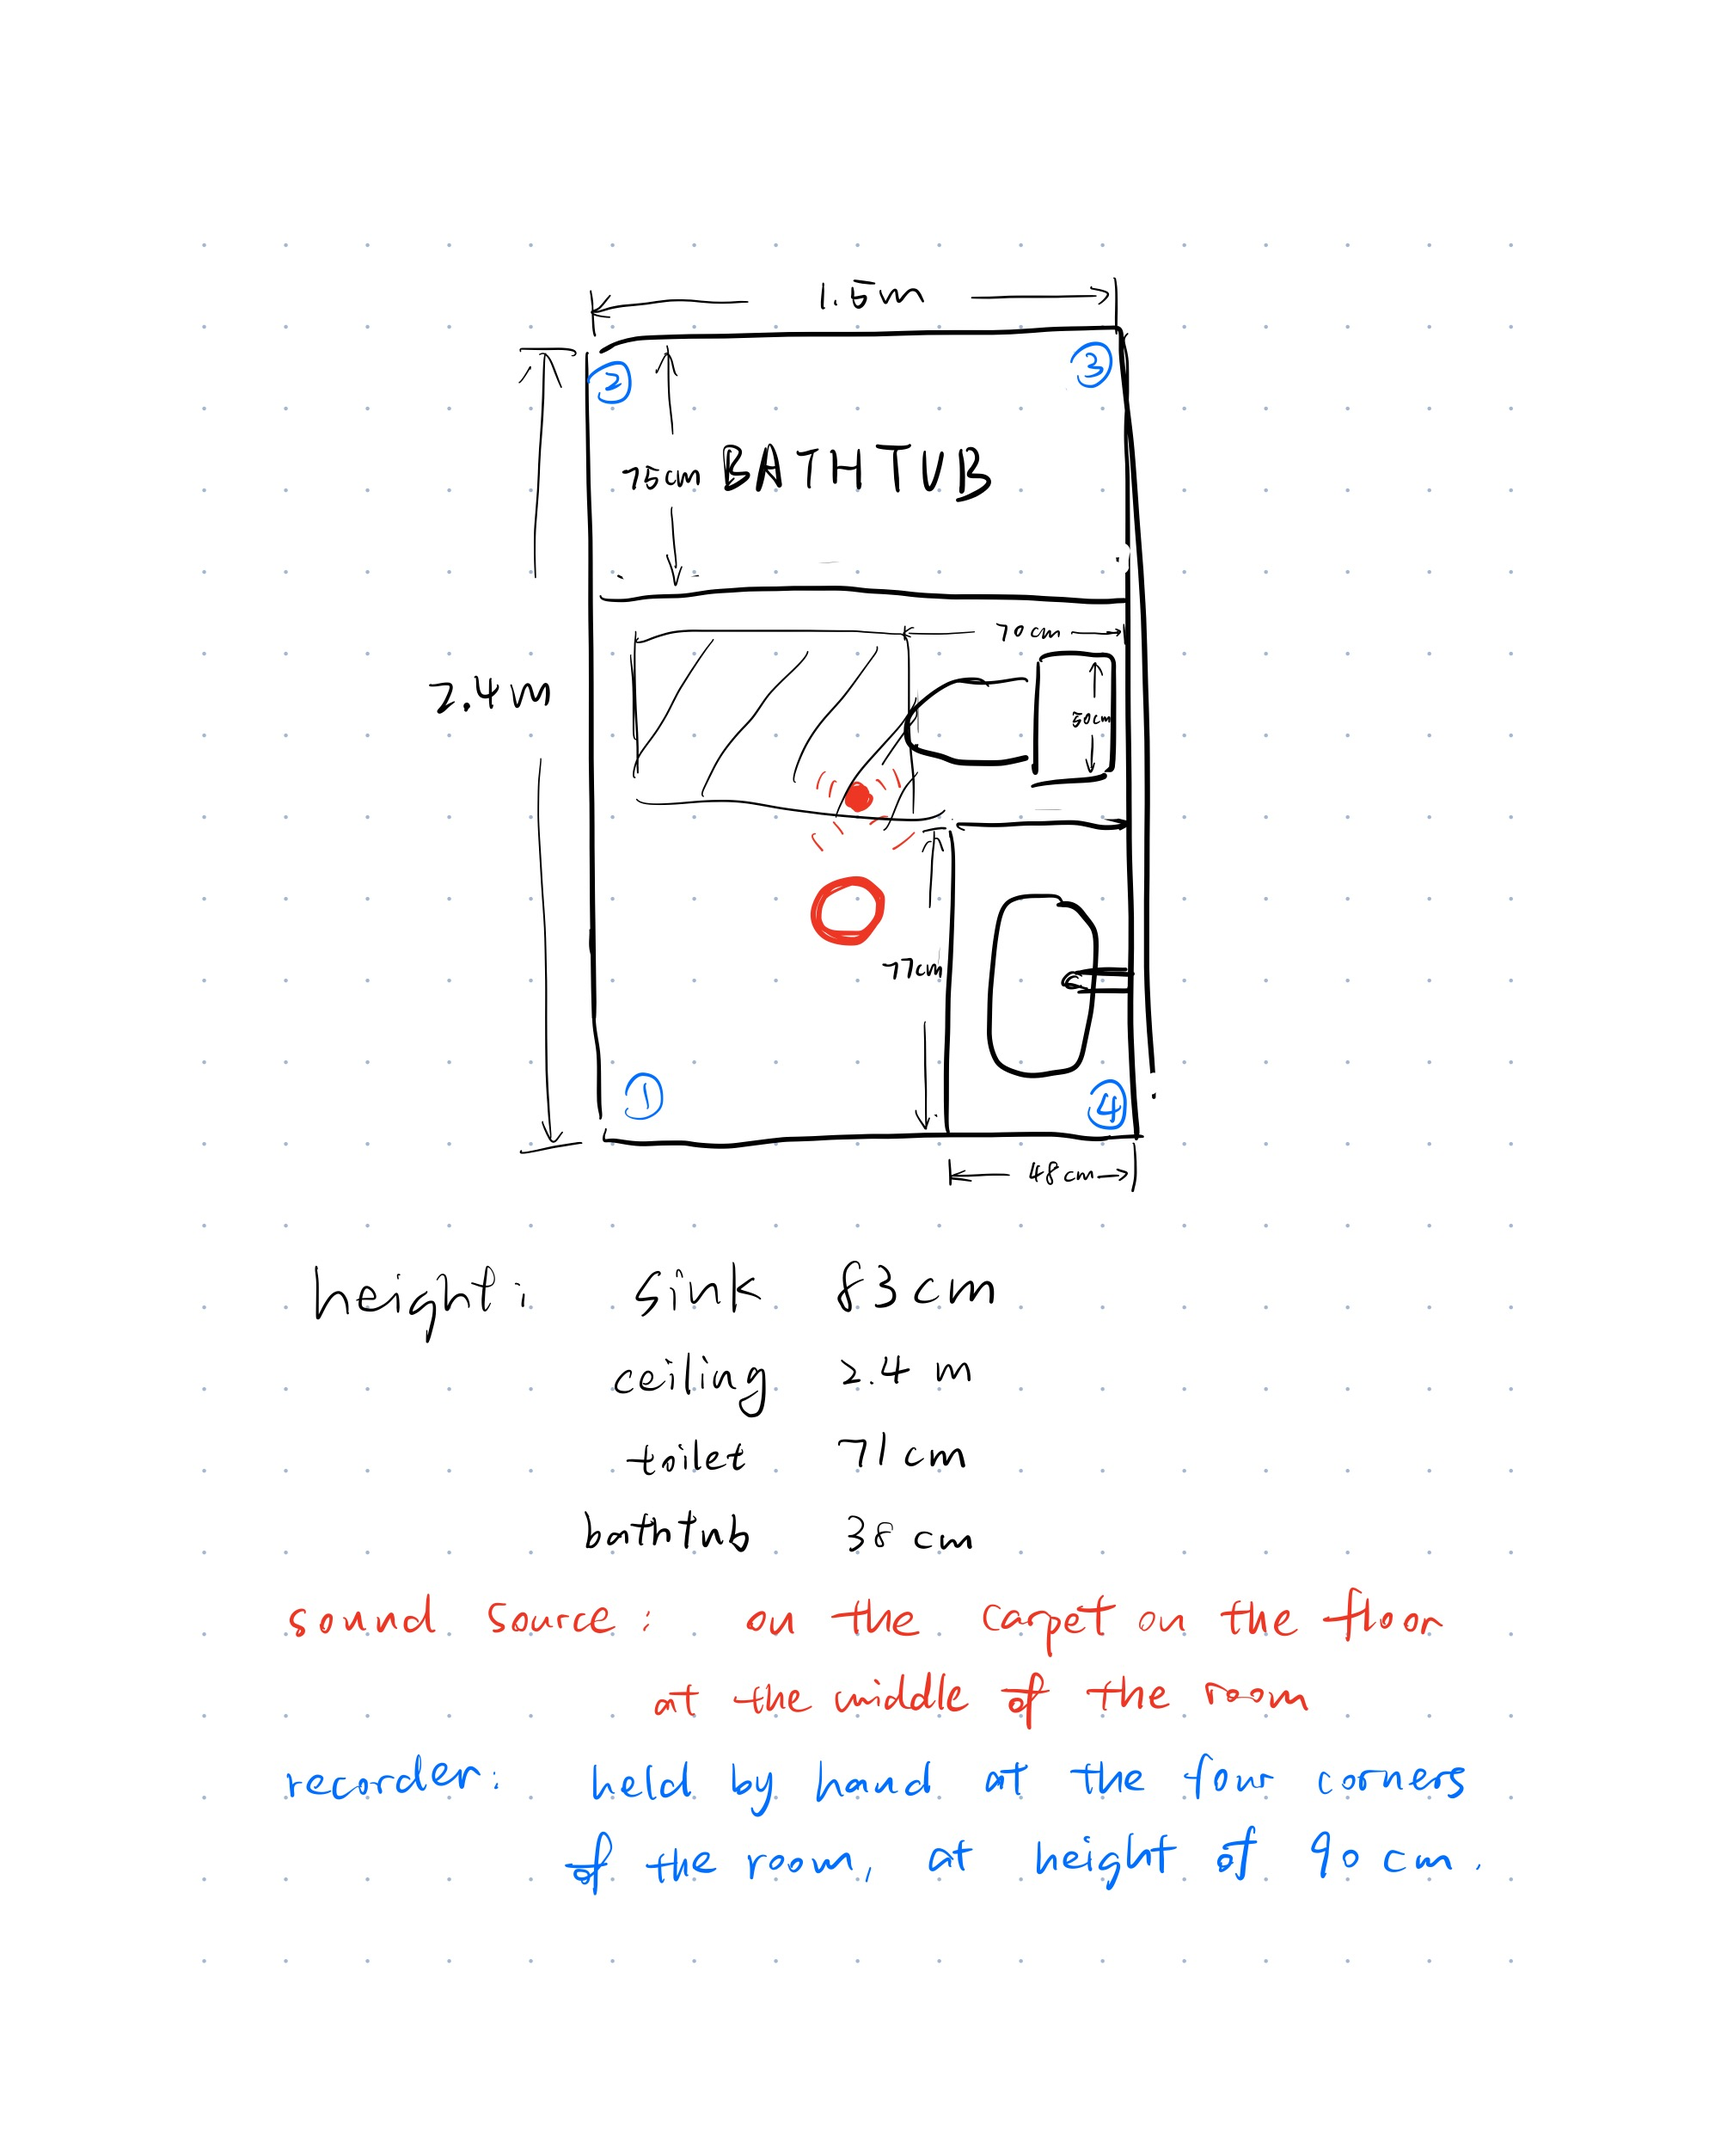
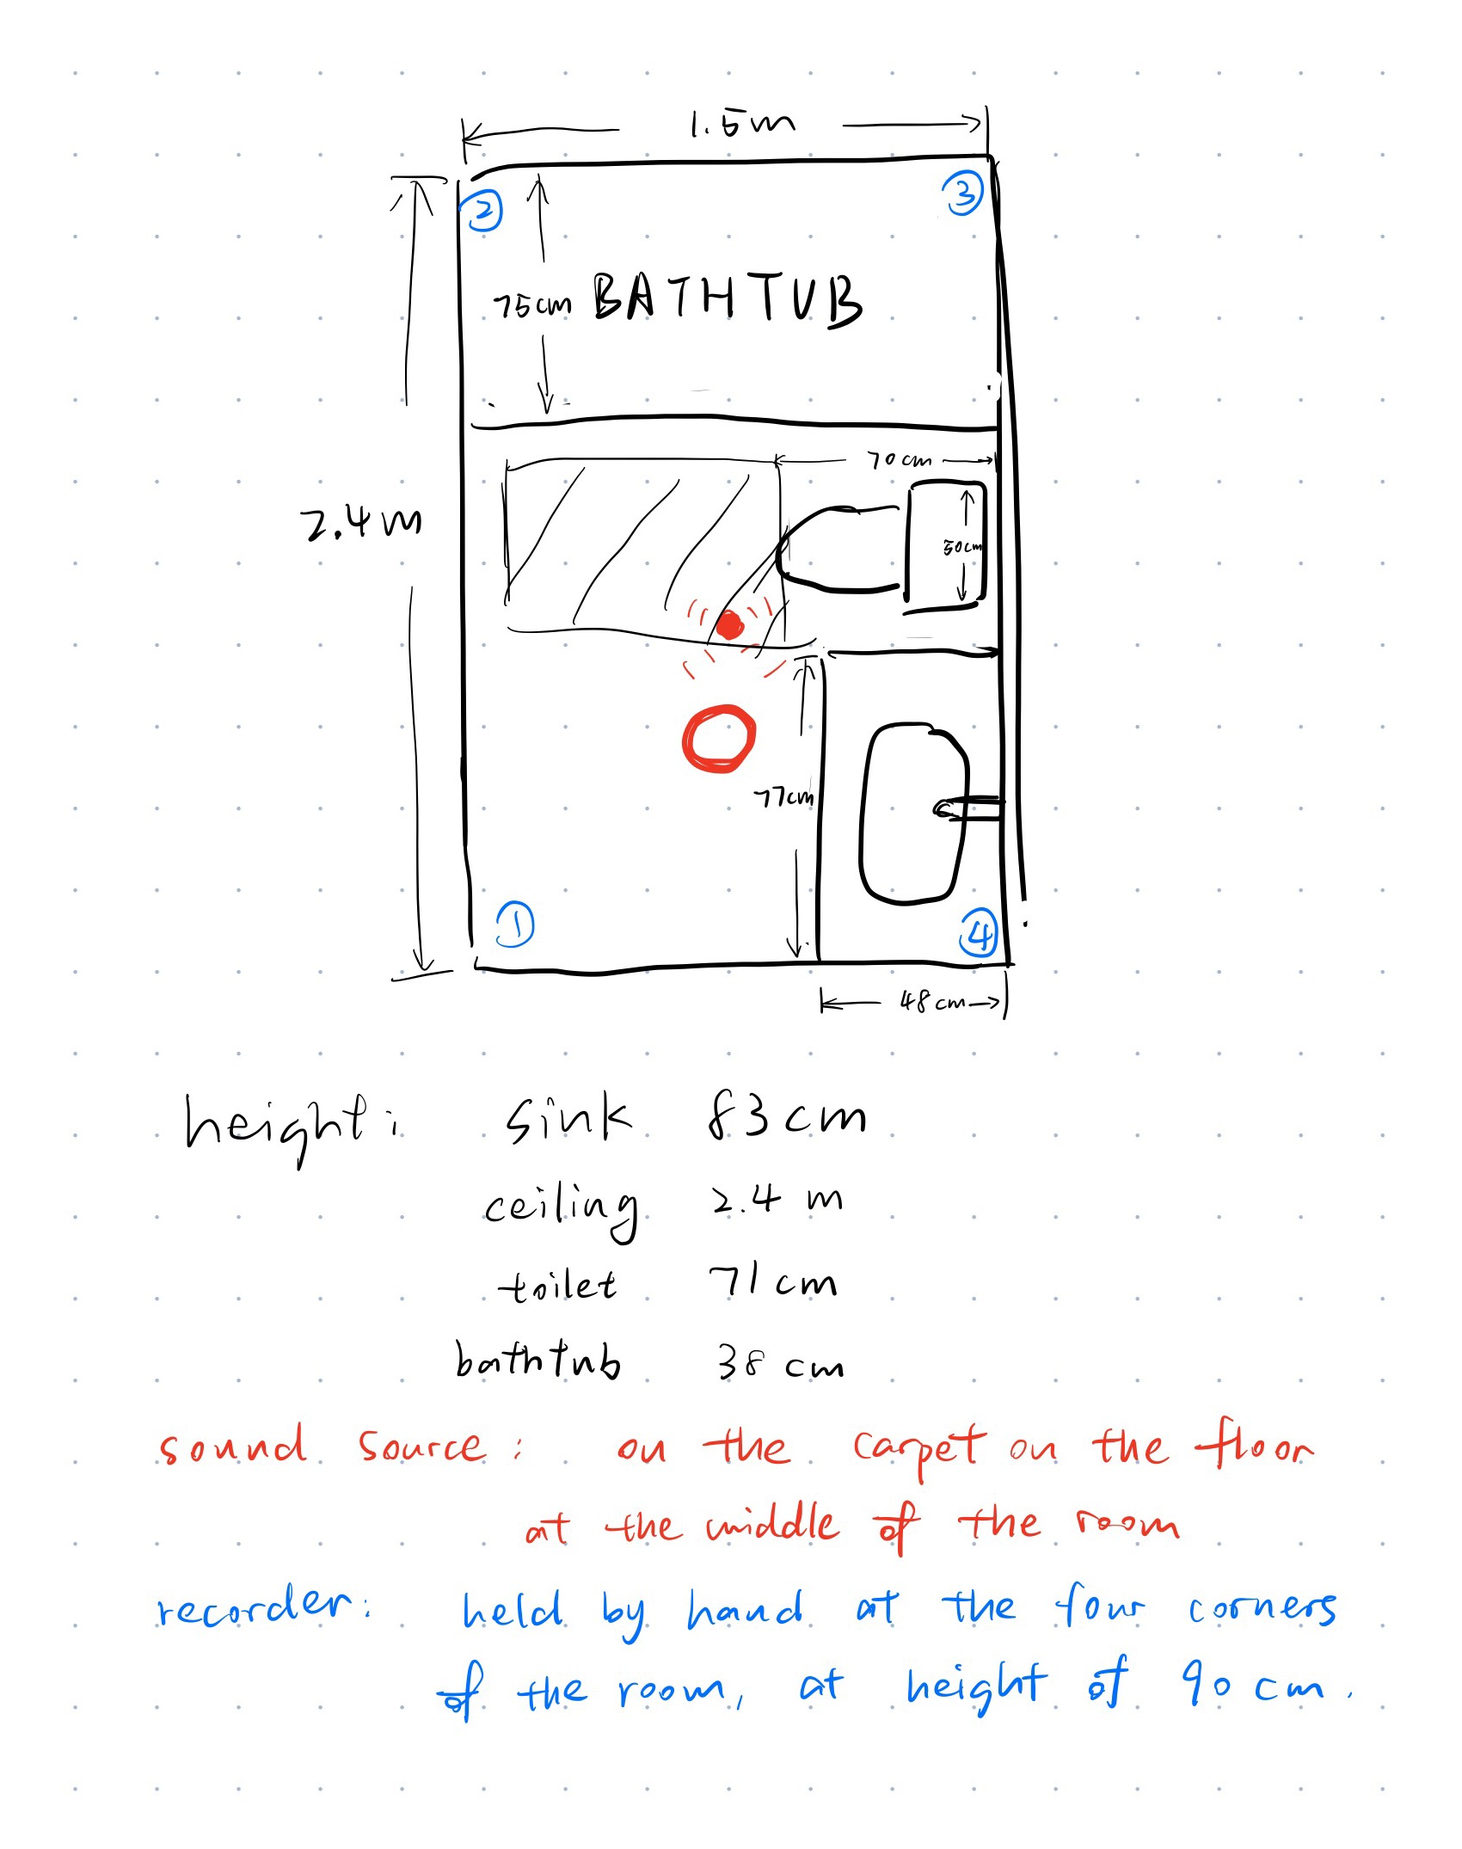
Compact Data page: images left, recordings right; crop sketch margins

diff --git a/data.html b/data.html
@@ -32,10 +32,9 @@
   <div class="toc"><ol>
     <li><a href="#types">Data types at a glance</a></li>
     <li><a href="#input">The input: a clap recording</a></li>
-    <li><a href="#simulated">Simulated room outputs</a></li>
-    <li><a href="#rooms">The two real rooms and recorder positions ①–④</a></li>
+    <li><a href="#simulated">Simulated room outputs (with audio)</a></li>
+    <li><a href="#rooms">The two real rooms: positions ①–④ and recordings</a></li>
     <li><a href="#setup">How we recorded</a></li>
-    <li><a href="#audio">Listen to the input and simulations</a></li>
     <li><a href="#reference">Reference: original hand sketches</a></li>
   </ol></div>
 
@@ -53,29 +52,31 @@
   <p>From these we compute further data: estimated room impulse responses \(\hat h[n]\), energy-decay curves, spectra, and room-acoustic metrics (EDT, \(T_{10}\), DRR, \(C_{50}\)).</p>
 
   <h2 id="input">The input: a clap recording</h2>
-  <p><code>claps.wav</code> contains a series of 12 hand claps about 0.45 s apart. A clap is a short, broadband burst, so it is a rough stand-in for an impulse. It is not a perfect one: it lasts a few milliseconds, has its own spectrum, and the claps vary in loudness (from 0.18 to 1.00 of the loudest). Because the hands were close to the microphone, the direct sound dominates, but there is still a short tail from the room it was recorded in.</p>
+  <div class="split">
+    <div>
+      <p><code>claps.wav</code> contains a series of 12 hand claps about 0.45 s apart. A clap is a short, broadband burst, so it is a rough stand-in for an impulse. It is not a perfect one: it lasts a few milliseconds, has its own spectrum, and the claps vary in loudness (from 0.18 to 1.00 of the loudest). Because the hands were close to the microphone, the direct sound dominates, but there is still a short tail from the room it was recorded in.</p>
+    </div>
+    <div class="side-audio">
+      <div class="audio-item"><div class="t">claps.wav <span class="tag orig">original</span></div><audio controls preload="none" src="audio/claps.wav"></audio></div>
+    </div>
+  </div>
 
   <h2 id="simulated">Simulated room outputs</h2>
-  <p>Each synthetic impulse response is an impulse at time zero (the direct sound) plus smaller, delayed impulses (reflections). We compute \(y = x * h\) with <code>scipy.signal.fftconvolve</code>.</p>
-  <div class="tbl"><table>
-    <thead><tr><th>Model</th><th>Delays (s)</th><th>Amplitudes</th></tr></thead>
-    <tbody>
-      <tr><td>Single echo</td><td>0, 0.25</td><td>1.00, 0.60</td></tr>
-      <tr><td>Multiple reflections</td><td>0, 0.15, 0.30, 0.50</td><td>1.00, 0.60, 0.35, 0.20</td></tr>
-      <tr><td>Early reflections + decay tail</td><td>0, 0.007, 0.012, 0.018, then noise tail from 0.020</td><td>1.00, 0.50, 0.40, 0.30; tail \(T_{60}=0.40\) s, DRR 0 dB</td></tr>
-    </tbody>
-  </table></div>
-  <figure>
-    <img src="img/impulse_responses.png" alt="Stem plots of the single-echo and multiple-reflection impulse responses" loading="lazy">
-    <figcaption>The two discrete-echo impulse responses. The third model (millisecond reflections plus an exponentially decaying noise tail) was added because real reflections in a small room arrive within tens of milliseconds, not hundreds.</figcaption>
-  </figure>
-  <figure>
-    <img src="img/fig0_tail_model.png" alt="The early-reflections-plus-decay-tail impulse response" loading="lazy">
-    <figcaption>The third synthetic impulse response: direct sound, three early reflections, and a noise tail designed to decay by 60 dB in 0.40 s.</figcaption>
-  </figure>
+  <p>Each synthetic impulse response is an impulse at time zero (the direct sound) plus smaller, delayed impulses (reflections). We compute \(y = x * h\) with <code>scipy.signal.fftconvolve</code>. The third model was added because real reflections in a small room arrive within tens of milliseconds, not hundreds.</p>
+  <div class="room-grid" id="audio">
+    <div class="room-visual">
+      <figure><img src="img/impulse_responses.png" alt="Stem plots of the single-echo and multiple-reflection impulse responses" loading="lazy"><figcaption>Single echo and multiple reflections.</figcaption></figure>
+      <figure><img src="img/fig0_tail_model.png" alt="The early-reflections-plus-decay-tail impulse response and its energy decay" loading="lazy"><figcaption>Early reflections + noise tail, designed to fall 60 dB in 0.40 s.</figcaption></figure>
+    </div>
+    <ol class="pos-list">
+      <li><span class="pin sim">A</span><div><strong>Single echo</strong><br><span class="meta">Delays 0, 0.25 s · amplitudes 1.00, 0.60</span><audio controls preload="none" src="audio/single_echo.wav"></audio></div></li>
+      <li><span class="pin sim">B</span><div><strong>Multiple reflections</strong><br><span class="meta">Delays 0, 0.15, 0.30, 0.50 s · amplitudes 1.00, 0.60, 0.35, 0.20</span><audio controls preload="none" src="audio/multiple_reflections.wav"></audio></div></li>
+      <li><span class="pin sim">C</span><div><strong>Early reflections + decay tail</strong><br><span class="meta">Reflections at 7, 12, 18 ms (0.50, 0.40, 0.30), then a noise tail from 20 ms with \(T_{60}=0.40\) s, DRR 0 dB</span><audio controls preload="none" src="audio/decay_tail_C.wav"></audio></div></li>
+    </ol>
+  </div>
 
   <h2 id="rooms">The two real rooms</h2>
-  <p>Both rooms are in the same residence. Dimensions come from tape-measured hand sketches. In each room the phone (red dot) played <code>claps.wav</code> from the middle of the room, and the recorder was held at four positions, labeled <strong>①–④</strong> on every sketch and plan.</p>
+  <p>Both rooms are in the same residence. Dimensions come from tape-measured hand sketches. In each room the phone (red dot) played <code>claps.wav</code> from the middle of the room, and the recorder was held at four positions, labeled <strong>①–④</strong> on every plan.</p>
   <div class="tbl"><table>
     <thead><tr><th>Factor</th><th>Room One: bedroom</th><th>Room Two: bathroom</th></tr></thead>
     <tbody>
@@ -91,13 +92,13 @@
   <!-- ---------- Room One ---------- -->
   <section class="room" id="bedroom">
     <h3>Room One · Bedroom</h3>
-    <div class="room-imgs">
-      <figure><img src="img/bedroom_3d_concept_v10.jpg" alt="3D illustration of the bedroom with bed, center shelf, desk and doorway" loading="lazy"><figcaption>3D illustration (AI-generated, for orientation only; not to scale).</figcaption></figure>
-      <figure><img src="img/bedroom_plan.png" alt="Clean bedroom plan with source and positions 1 to 4" loading="lazy"><figcaption>Measured plan. Red: phone (sound source). Blue ①–④: recorder positions.</figcaption></figure>
-    </div>
-    <div class="room-detail single">
-      <div class="positions">
-        <p class="pos-note"><strong>Positions ①–④ are at the middle of each wall</strong> (not the corners), held at the same height as the phone.</p>
+    <div class="room-grid">
+      <div class="room-visual">
+        <figure><img src="img/bedroom_3d_concept_v10.jpg" alt="3D illustration of the bedroom with bed, center shelf, desk and doorway" loading="lazy"><figcaption>3D illustration (AI-generated, not to scale).</figcaption></figure>
+        <figure><img src="img/bedroom_plan.png" alt="Measured bedroom plan with source and positions 1 to 4" loading="lazy"><figcaption>Measured plan. Red: phone. Blue ①–④: recorder.</figcaption></figure>
+      </div>
+      <div>
+        <p class="pos-note"><strong>①–④ are at the middle of each wall</strong> (not the corners), at the same height as the phone.</p>
         <ol class="pos-list">
           <li><span class="pin bed">1</span><div><strong>Left wall, middle</strong><br><span class="meta">Open floor between the desk and the corner shelf.</span><audio controls preload="none" src="audio/bedroom1.m4a"></audio></div></li>
           <li><span class="pin bed">2</span><div><strong>Bottom wall, middle</strong><br><span class="meta">Wall next to the corridor opening.</span><audio controls preload="none" src="audio/bedroom2.m4a"></audio></div></li>
@@ -111,13 +112,13 @@
   <!-- ---------- Room Two ---------- -->
   <section class="room" id="bathroom">
     <h3>Room Two · Bathroom</h3>
-    <div class="room-imgs">
-      <figure><img src="img/bathroom_3d_concept.jpg" alt="3D illustration of the bathroom with bathtub, toilet, sink and floor mat" loading="lazy"><figcaption>3D illustration (AI-generated, for orientation only; not to scale).</figcaption></figure>
-      <figure><img src="img/bathroom_plan.png" alt="Clean bathroom plan with source and positions 1 to 4" loading="lazy"><figcaption>Measured plan. Red: phone (sound source). Blue ①–④: recorder positions.</figcaption></figure>
-    </div>
-    <div class="room-detail single">
-      <div class="positions">
-        <p class="pos-note"><strong>Positions ①–④ are the four corners of the room</strong>, recorder held by hand 0.90 m above the floor.</p>
+    <div class="room-grid">
+      <div class="room-visual">
+        <figure><img src="img/bathroom_3d_concept.jpg" alt="3D illustration of the bathroom with bathtub, toilet, sink and floor mat" loading="lazy"><figcaption>3D illustration (AI-generated, not to scale).</figcaption></figure>
+        <figure><img src="img/bathroom_plan.png" alt="Measured bathroom plan with source and positions 1 to 4" loading="lazy"><figcaption>Measured plan. Red: phone. Blue ①–④: recorder.</figcaption></figure>
+      </div>
+      <div>
+        <p class="pos-note"><strong>①–④ are the four corners of the room</strong>, recorder held by hand 0.90 m above the floor.</p>
         <ol class="pos-list">
           <li><span class="pin bath">1</span><div><strong>Bottom-left corner</strong><br><span class="meta">Open floor, opposite the bathtub.</span><audio controls preload="none" src="audio/bathroom1.m4a"></audio></div></li>
           <li><span class="pin bath">2</span><div><strong>Top-left corner</strong><br><span class="meta">Above one end of the bathtub.</span><audio controls preload="none" src="audio/bathroom2.m4a"></audio></div></li>
@@ -129,6 +130,7 @@
   </section>
 
   <p>The room dimensions already predict two things. Wall-to-wall round trips \(2d/c\) are 9–24 ms, so reflections should fuse with the direct sound rather than be heard as separate echoes. The lowest room modes \(c/2d\) lie at 42–114 Hz, where a phone speaker produces almost no sound, so we cannot observe them.</p>
+
   <h2 id="setup">How we recorded</h2>
   <ul>
     <li>One phone played <code>claps.wav</code>; a second device, held by hand, recorded. One take per position, four positions per room.</li>
@@ -136,22 +138,13 @@
     <li>Playback and recording were <strong>not synchronized</strong>, so we align signals afterwards using the strongest peak.</li>
     <li>Distances from furniture to walls were not measured, so the plans show layout only and are not used to compute reflection paths.</li>
   </ul>
-
-  <h2 id="audio">Listen</h2>
-  <p>The input and the three simulated outputs are below. The eight room recordings are next to their positions in <a href="#bedroom">the bedroom</a> and <a href="#bathroom">the bathroom</a> sections above.</p>
-  <div class="audio-list">
-    <div class="audio-item"><div class="t">claps.wav <span class="tag orig">original</span></div><audio controls preload="none" src="audio/claps.wav"></audio></div>
-    <div class="audio-item"><div class="t">Single echo <span class="tag sim">simulated</span></div><audio controls preload="none" src="audio/single_echo.wav"></audio></div>
-    <div class="audio-item"><div class="t">Multiple reflections <span class="tag sim">simulated</span></div><audio controls preload="none" src="audio/multiple_reflections.wav"></audio></div>
-    <div class="audio-item"><div class="t">Early reflections + tail <span class="tag sim">simulated</span></div><audio controls preload="none" src="audio/decay_tail_C.wav"></audio></div>
-  </div>
   <p class="meta">Code: <a href="code/echo.py">echo.py</a> (simulation) · <a href="code/analysis.py">analysis.py</a> (estimation and report figures) · <a href="code/generate_plots.py">generate_plots.py</a> (the plots on the Analysis page).</p>
 
   <h2 id="reference">Reference: original hand sketches</h2>
-  <p>The measured plans above were redrawn from these hand sketches, which we made while measuring the rooms. They are included for reference only: they hold the original dimensions and notes but are not needed to follow the analysis.</p>
-  <div class="two">
-    <figure><img src="img/bedroom_hand_sketch.jpg" alt="Original hand sketch of the bedroom with dimensions, source and recorder positions 1 to 4 at the middle of each wall" loading="lazy"><figcaption>Bedroom. Red: phone on the center shelf. Blue ①–④: recorder at the middle of each wall.</figcaption></figure>
-    <figure><img src="img/bathroom_hand_sketch.jpg" alt="Original hand sketch of the bathroom with dimensions, source and recorder positions 1 to 4 in the corners" loading="lazy"><figcaption>Bathroom. Red: phone on the floor mat. Blue ①–④: recorder in each corner.</figcaption></figure>
+  <p>The measured plans above were redrawn from these hand sketches, which we made while measuring the rooms. They are included for reference only.</p>
+  <div class="sketches">
+    <figure><img src="img/bedroom_hand_sketch.jpg" alt="Original hand sketch of the bedroom with dimensions, source and recorder positions 1 to 4 at the middle of each wall" loading="lazy"><figcaption>Bedroom: recorder at the middle of each wall.</figcaption></figure>
+    <figure><img src="img/bathroom_hand_sketch.jpg" alt="Original hand sketch of the bathroom with dimensions, source and recorder positions 1 to 4 in the corners" loading="lazy"><figcaption>Bathroom: recorder in each corner.</figcaption></figure>
   </div>
 
   <div class="pager"><a href="index.html">← Overview</a><a href="plots.html">Analysis →</a></div>

diff --git a/style.css b/style.css
@@ -180,3 +180,16 @@ h2[id], h3[id], [id] { scroll-margin-top: 90px; }
 .contents p { margin: 2px 0 0; color: var(--muted); font-size: 15.5px; }
 .room-imgs { grid-template-columns: 1.25fr 1fr; align-items: center; }
 .room-detail.single { grid-template-columns: 1fr; }
+
+/* ---------- compact side-by-side layout (data page) ---------- */
+.room-grid { display: grid; grid-template-columns: minmax(0, .8fr) minmax(0, 1.2fr); gap: 24px; align-items: start; margin: 10px 0 8px; }
+.room-visual figure { margin: 0 0 10px; padding: 8px; }
+.room-visual figcaption { font-size: 12.5px; margin-top: 4px; }
+.room-grid .pos-list li:first-child { padding-top: 2px; }
+.room { margin: 24px 0 28px; }
+.split { display: grid; grid-template-columns: minmax(0, 1fr) 280px; gap: 24px; align-items: center; }
+.split p { margin: 0; }
+.sketches { display: grid; grid-template-columns: 1fr 1fr; gap: 12px; max-width: 620px; }
+.sketches figure { margin: 8px 0; padding: 8px; }
+.pin.sim { background: #6b7785; }
+@media (max-width: 720px) { .room-grid, .split { grid-template-columns: 1fr; gap: 12px; } .room-visual { display: grid; grid-template-columns: 1fr 1fr; gap: 8px; } .room-visual figure { margin: 0; } }
